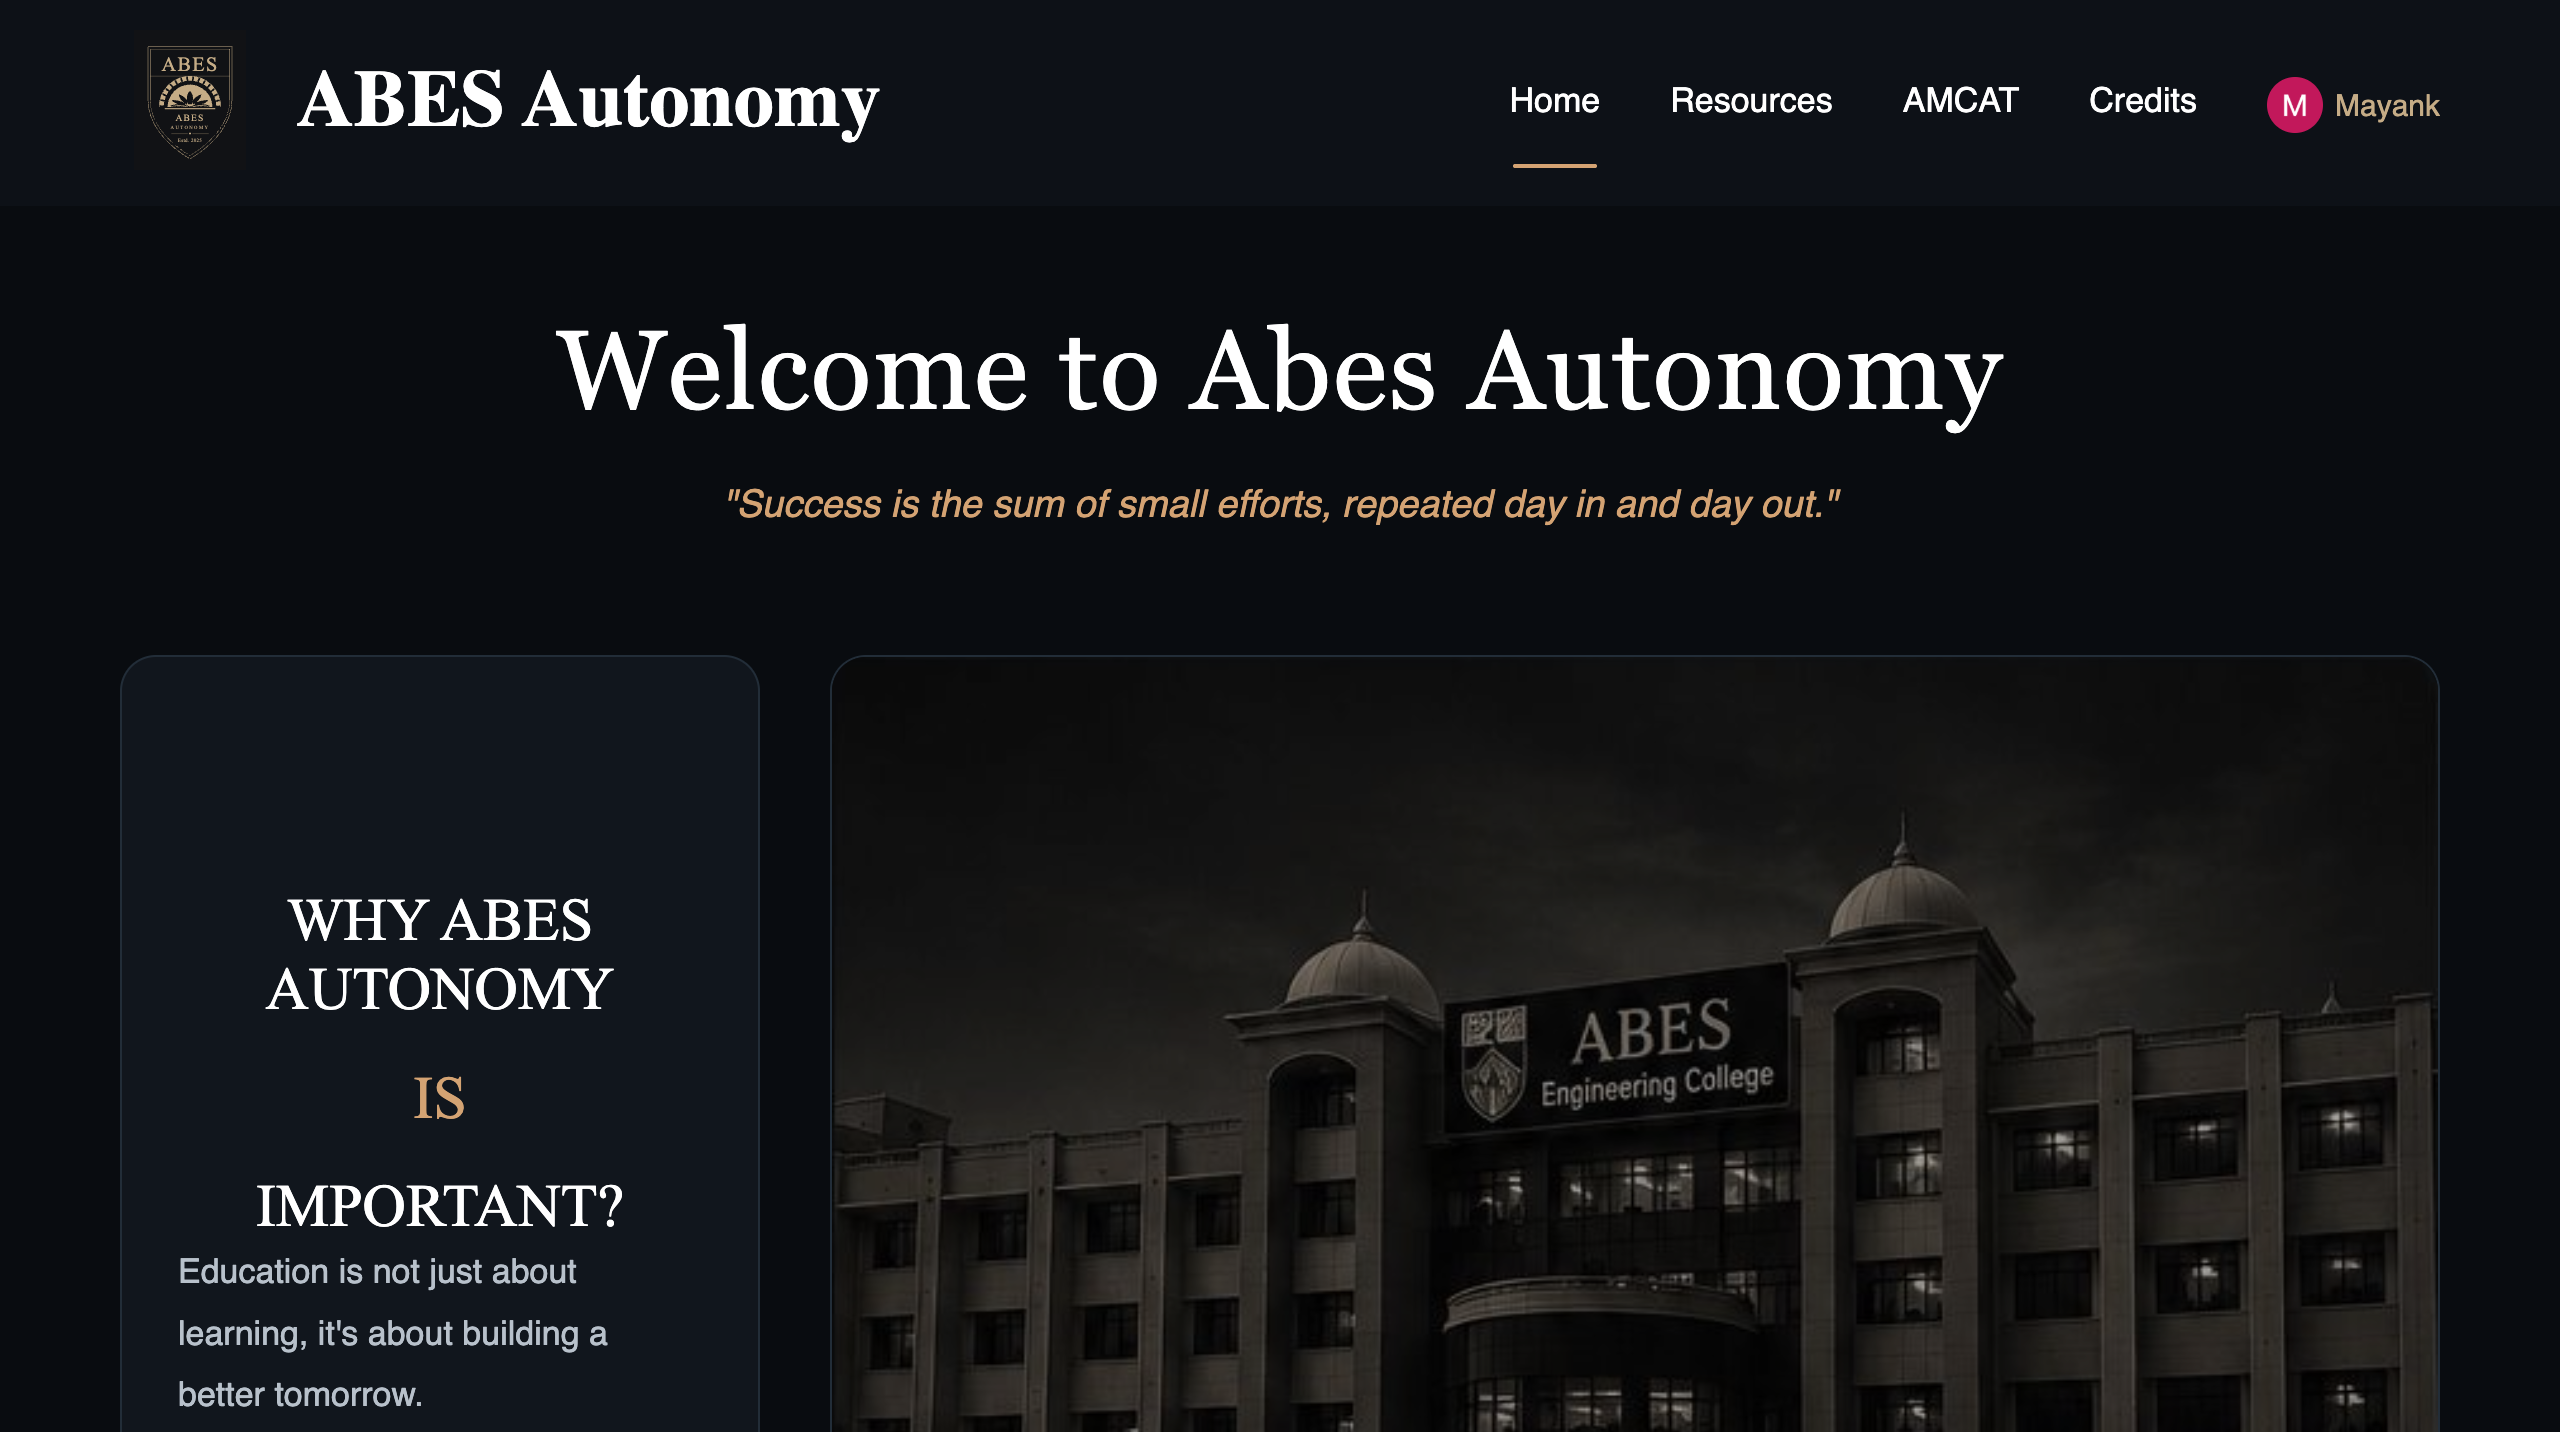
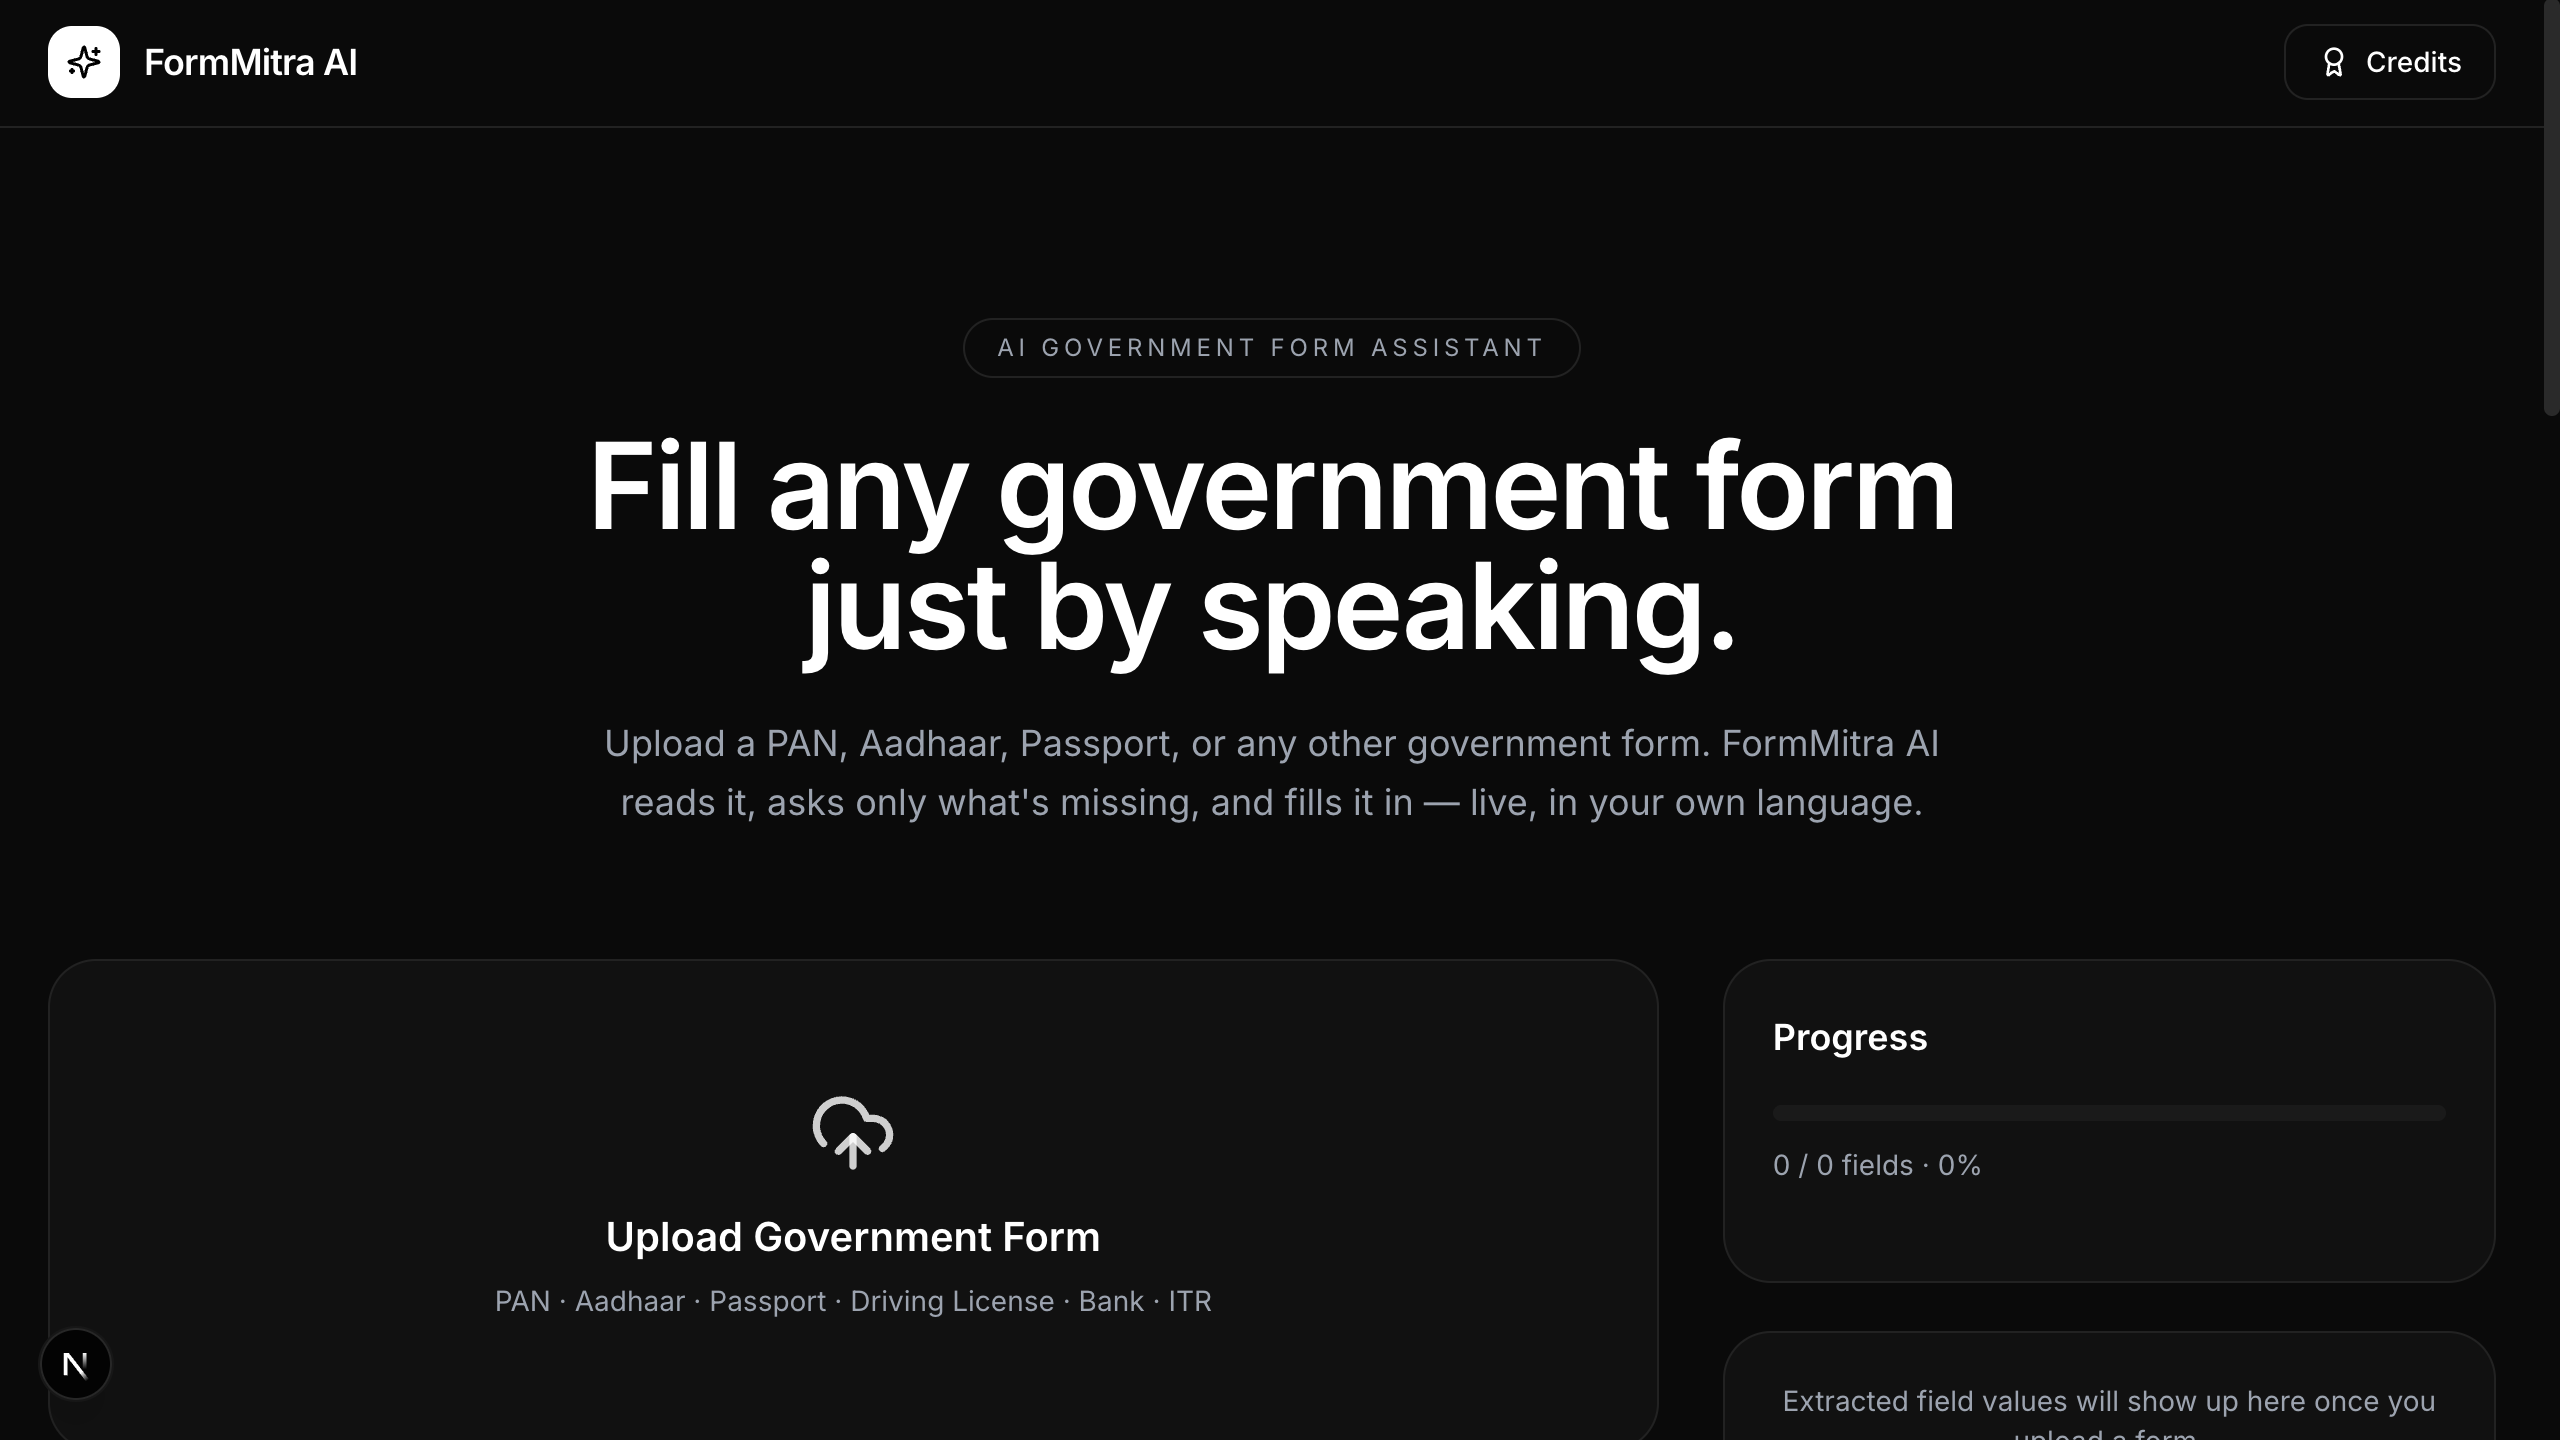
Add CrimeLens project image

diff --git a/src/components/Projects.jsx b/src/components/Projects.jsx
@@ -33,7 +33,8 @@ const Projects = () => {
       year: '2026',
       type: 'AI SYSTEM',
       live: 'COMING SOON',
-      source: 'https://github.com/mayankkotuli099/Crime-Lens.git'
+      source: 'https://github.com/mayankkotuli099/Crime-Lens.git',
+      image: '/crimelens.png'
     },
     {
       title: 'Flutter Calculator',
